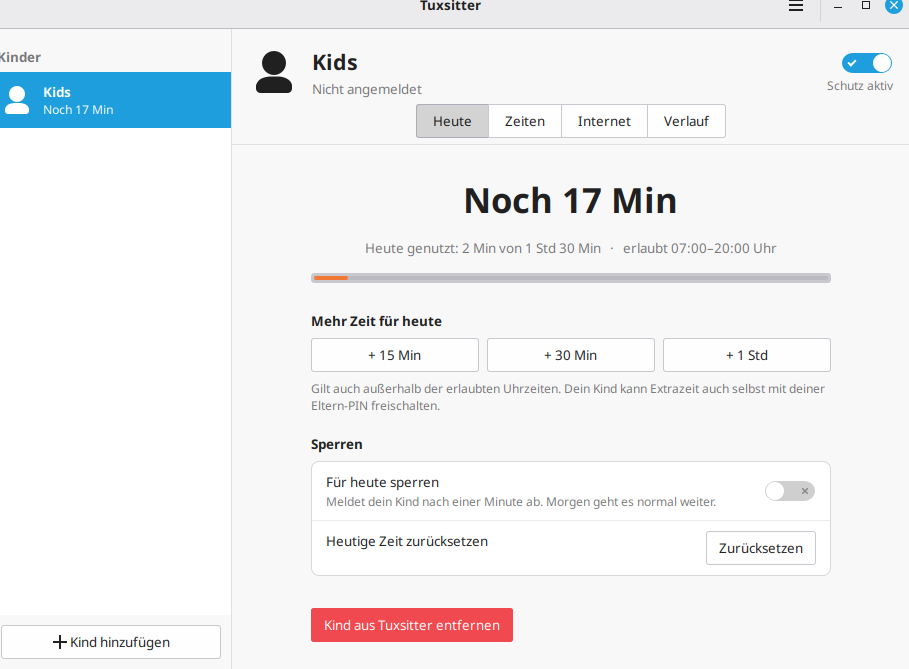
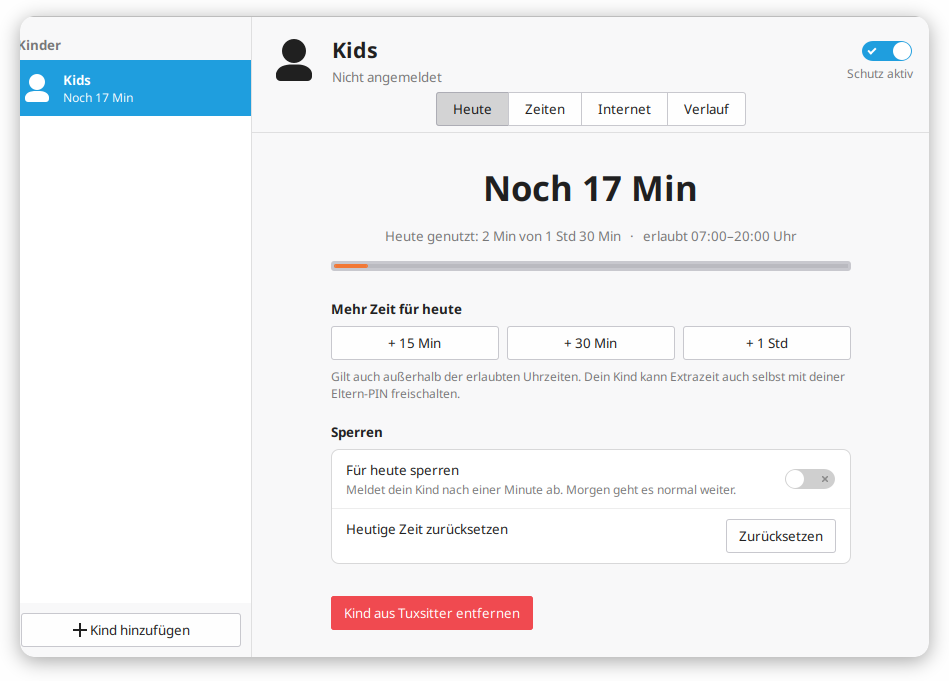
README: screenshots of all parent app pages with rounded corners
Claude-Session: https://claude.ai/code/session_01PqQyB99yQBmr9uF8UqeWiR

diff --git a/README.md b/README.md
@@ -45,10 +45,16 @@ Parents get one simple window; the child sees how much time is left in the panel
 
 ## Screenshots
 
-<p align="center">
-  <img src="docs/screenshots/today-de.png" width="720" alt="Tuxsitter parent app: today's overview with remaining time, extra time buttons and lock switch">
-  <br><sub>Parent app – today's overview (German UI)</sub>
-</p>
+<table>
+  <tr>
+    <td align="center"><img src="docs/screenshots/today-de.png" alt="Today: remaining time, extra time, lock"><br><sub>Today: remaining time, extra time, lock</sub></td>
+    <td align="center"><img src="docs/screenshots/schedule-de.png" alt="Schedule: school days, weekend, holidays"><br><sub>Schedule: school days, weekend, holidays</sub></td>
+  </tr>
+  <tr>
+    <td align="center"><img src="docs/screenshots/internet-de.png" alt="Internet: choose a family DNS filter"><br><sub>Internet: choose a family DNS filter</sub></td>
+    <td align="center"><img src="docs/screenshots/history-de.png" alt="History of the last 14 days"><br><sub>History of the last 14 days</sub></td>
+  </tr>
+</table>
 
 ## Installation
 

diff --git a/README.de.md b/README.de.md
@@ -46,10 +46,16 @@ einfaches Fenster, das Kind sieht im Panel, wie viel Zeit noch übrig ist.
 
 ## Screenshots
 
-<p align="center">
-  <img src="docs/screenshots/today-de.png" width="720" alt="Tuxsitter Eltern-App: Tagesübersicht mit Restzeit, Extrazeit-Knöpfen und Sperre">
-  <br><sub>Eltern-App – Übersicht „Heute“</sub>
-</p>
+<table>
+  <tr>
+    <td align="center"><img src="docs/screenshots/today-de.png" alt="Heute: Restzeit, Extrazeit, Sperre"><br><sub>Heute: Restzeit, Extrazeit, Sperre</sub></td>
+    <td align="center"><img src="docs/screenshots/schedule-de.png" alt="Zeiten: Schultage, Wochenende, Ferien"><br><sub>Zeiten: Schultage, Wochenende, Ferien</sub></td>
+  </tr>
+  <tr>
+    <td align="center"><img src="docs/screenshots/internet-de.png" alt="Internet: Familienfilter wählen"><br><sub>Internet: Familienfilter wählen</sub></td>
+    <td align="center"><img src="docs/screenshots/history-de.png" alt="Verlauf der letzten 14 Tage"><br><sub>Verlauf der letzten 14 Tage</sub></td>
+  </tr>
+</table>
 
 ## Installation
 
